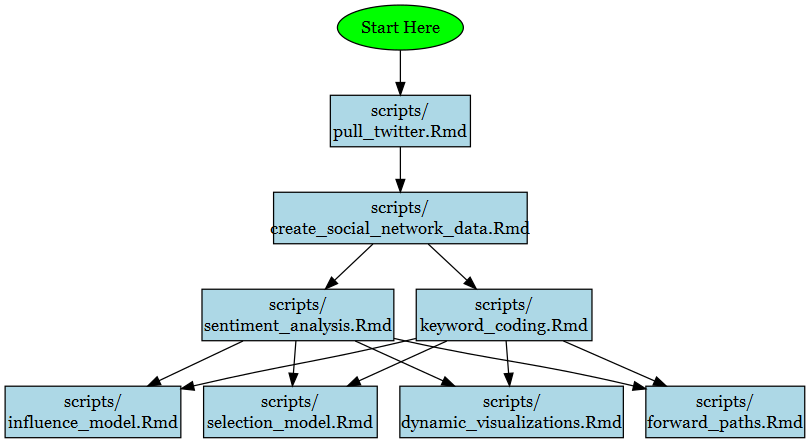
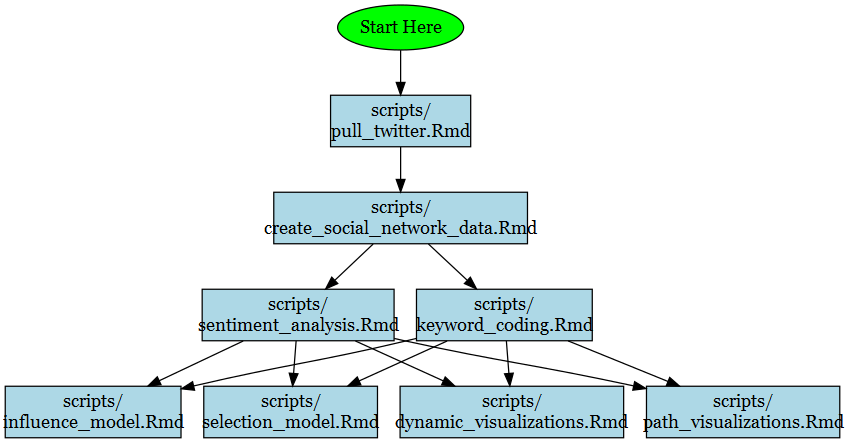
Updated README.

diff --git a/README.md b/README.md
@@ -1,11 +1,11 @@
 twitter-sna: tools for social network analysis with twitter data
 ================
-Nicole Jess, Yuqing Liu, & Shimeng Dai
+Nicole Jess, Yuqing Liu, Hasan Gokberk Bayhan, & Shimeng Dai
 
 <!-- README.md is generated from README.Rmd. Please edit that file -->
 
 This GitHub repository is intended to create social network datasets
-based on data scraped from twitter and provide some useful tools for
+based on data pulled from twitter and provide some useful tools for
 analysis.
 
 ## Obtain the Repository from GitHub
@@ -43,20 +43,25 @@ project](https://support.rstudio.com/hc/en-us/articles/200526207-Using-RStudio-P
       from GitHub.
   - `scripts`: This folder is where you can find the key files you will
     need to use if you want to run these analyses on your own computer.
-    - `scrape_tweets.RMD` This script creates a user-defined query,
-      scrapes data from Twitter, and saves the data to the user’s local
+    - `pull_tweets.RMD` This script creates a user-defined query, pulls
+      data from Twitter, and saves the data to the user’s local
       repository.
     - `create_social_network_data.RMD` This script restructures tweet
       data into a format that is useful for social network analysis
       (edgelists and nodelists).
+    - `sentiment_analysis.RMD` This script codes tweets for sentiment.
+      This example codes for positive and negative sentiments but tweets
+      can be coded in many other ways.
+    - `keyword_coding.RMD` This script codes tweets for keyword use. but
+      tweets can be coded in many other ways.  
     - `dynamic_visualizations.RMD` This script creates a dynamic
       visualization that shows the changes in the network over time.
     - `path_visualizations.RMD` This script creates a visualizations of
       paths to explore the influence of individuals in a dynamic
       network.
-    - `sentiment analysis.RMD` This script codes tweets for sentiment
-      for use in influence models. This example codes for positive and
-      negative sentiments but tweets can be coded in many other ways.
+    - `influence_model.RMD` This script runs an influence model. but
+      tweets can be coded in many other ways.
+    - `selection_model.RMD` This script runs a selection model.
   - `.gitignore`: This file tells Git what files to ignore and omit from
     synchronizing with the main repository on GitHub.
   - `LICENSE`: This file contains the terms of the license that applies
@@ -93,8 +98,8 @@ install.packages(pkgs = c("tidyverse", "academictwitteR", "rtweet", "tidytags",
 
 ## Access to Twitter Data
 
-To scrape data from twitter using the method in this repository, one
-must have a Twitter developer account with a project that has Basic (or
+To pull data from twitter using the method in this repository, one must
+have a Twitter developer account with a project that has Basic (or
 higher) level access. To set up such a project, follow this link and set
 up a project with the API access level that is appropriate for your
 project: [Getting
